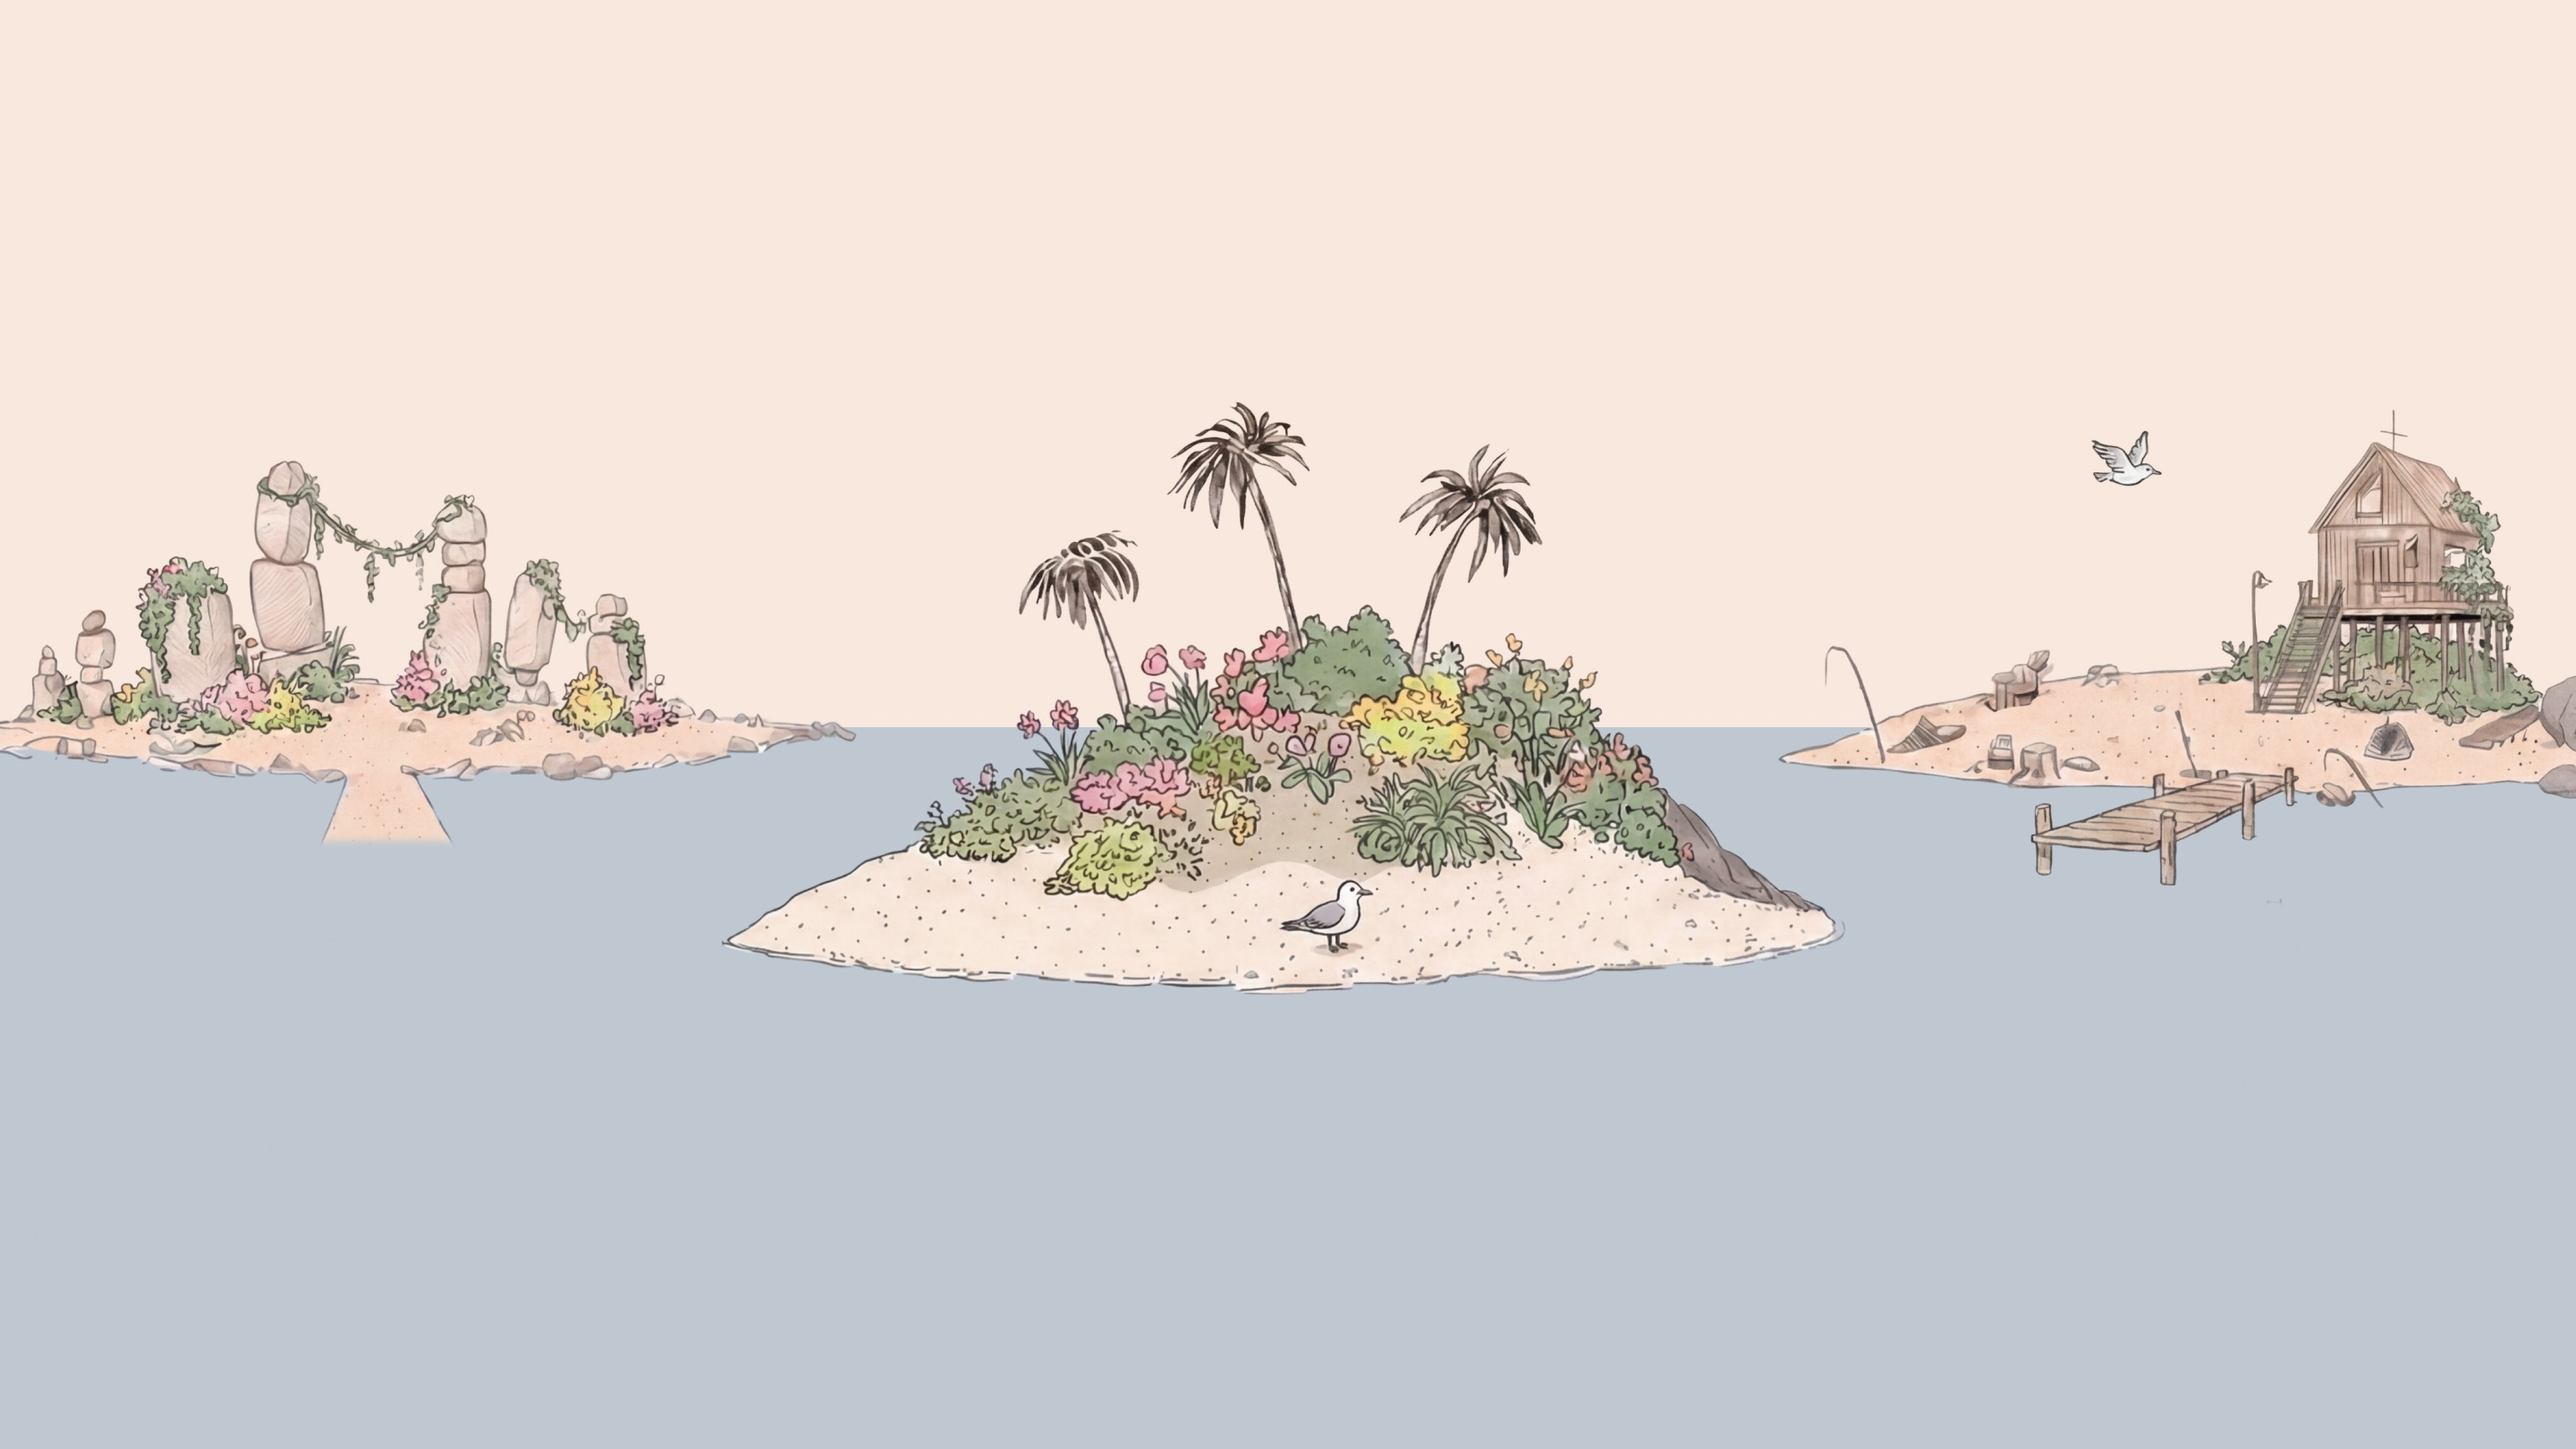
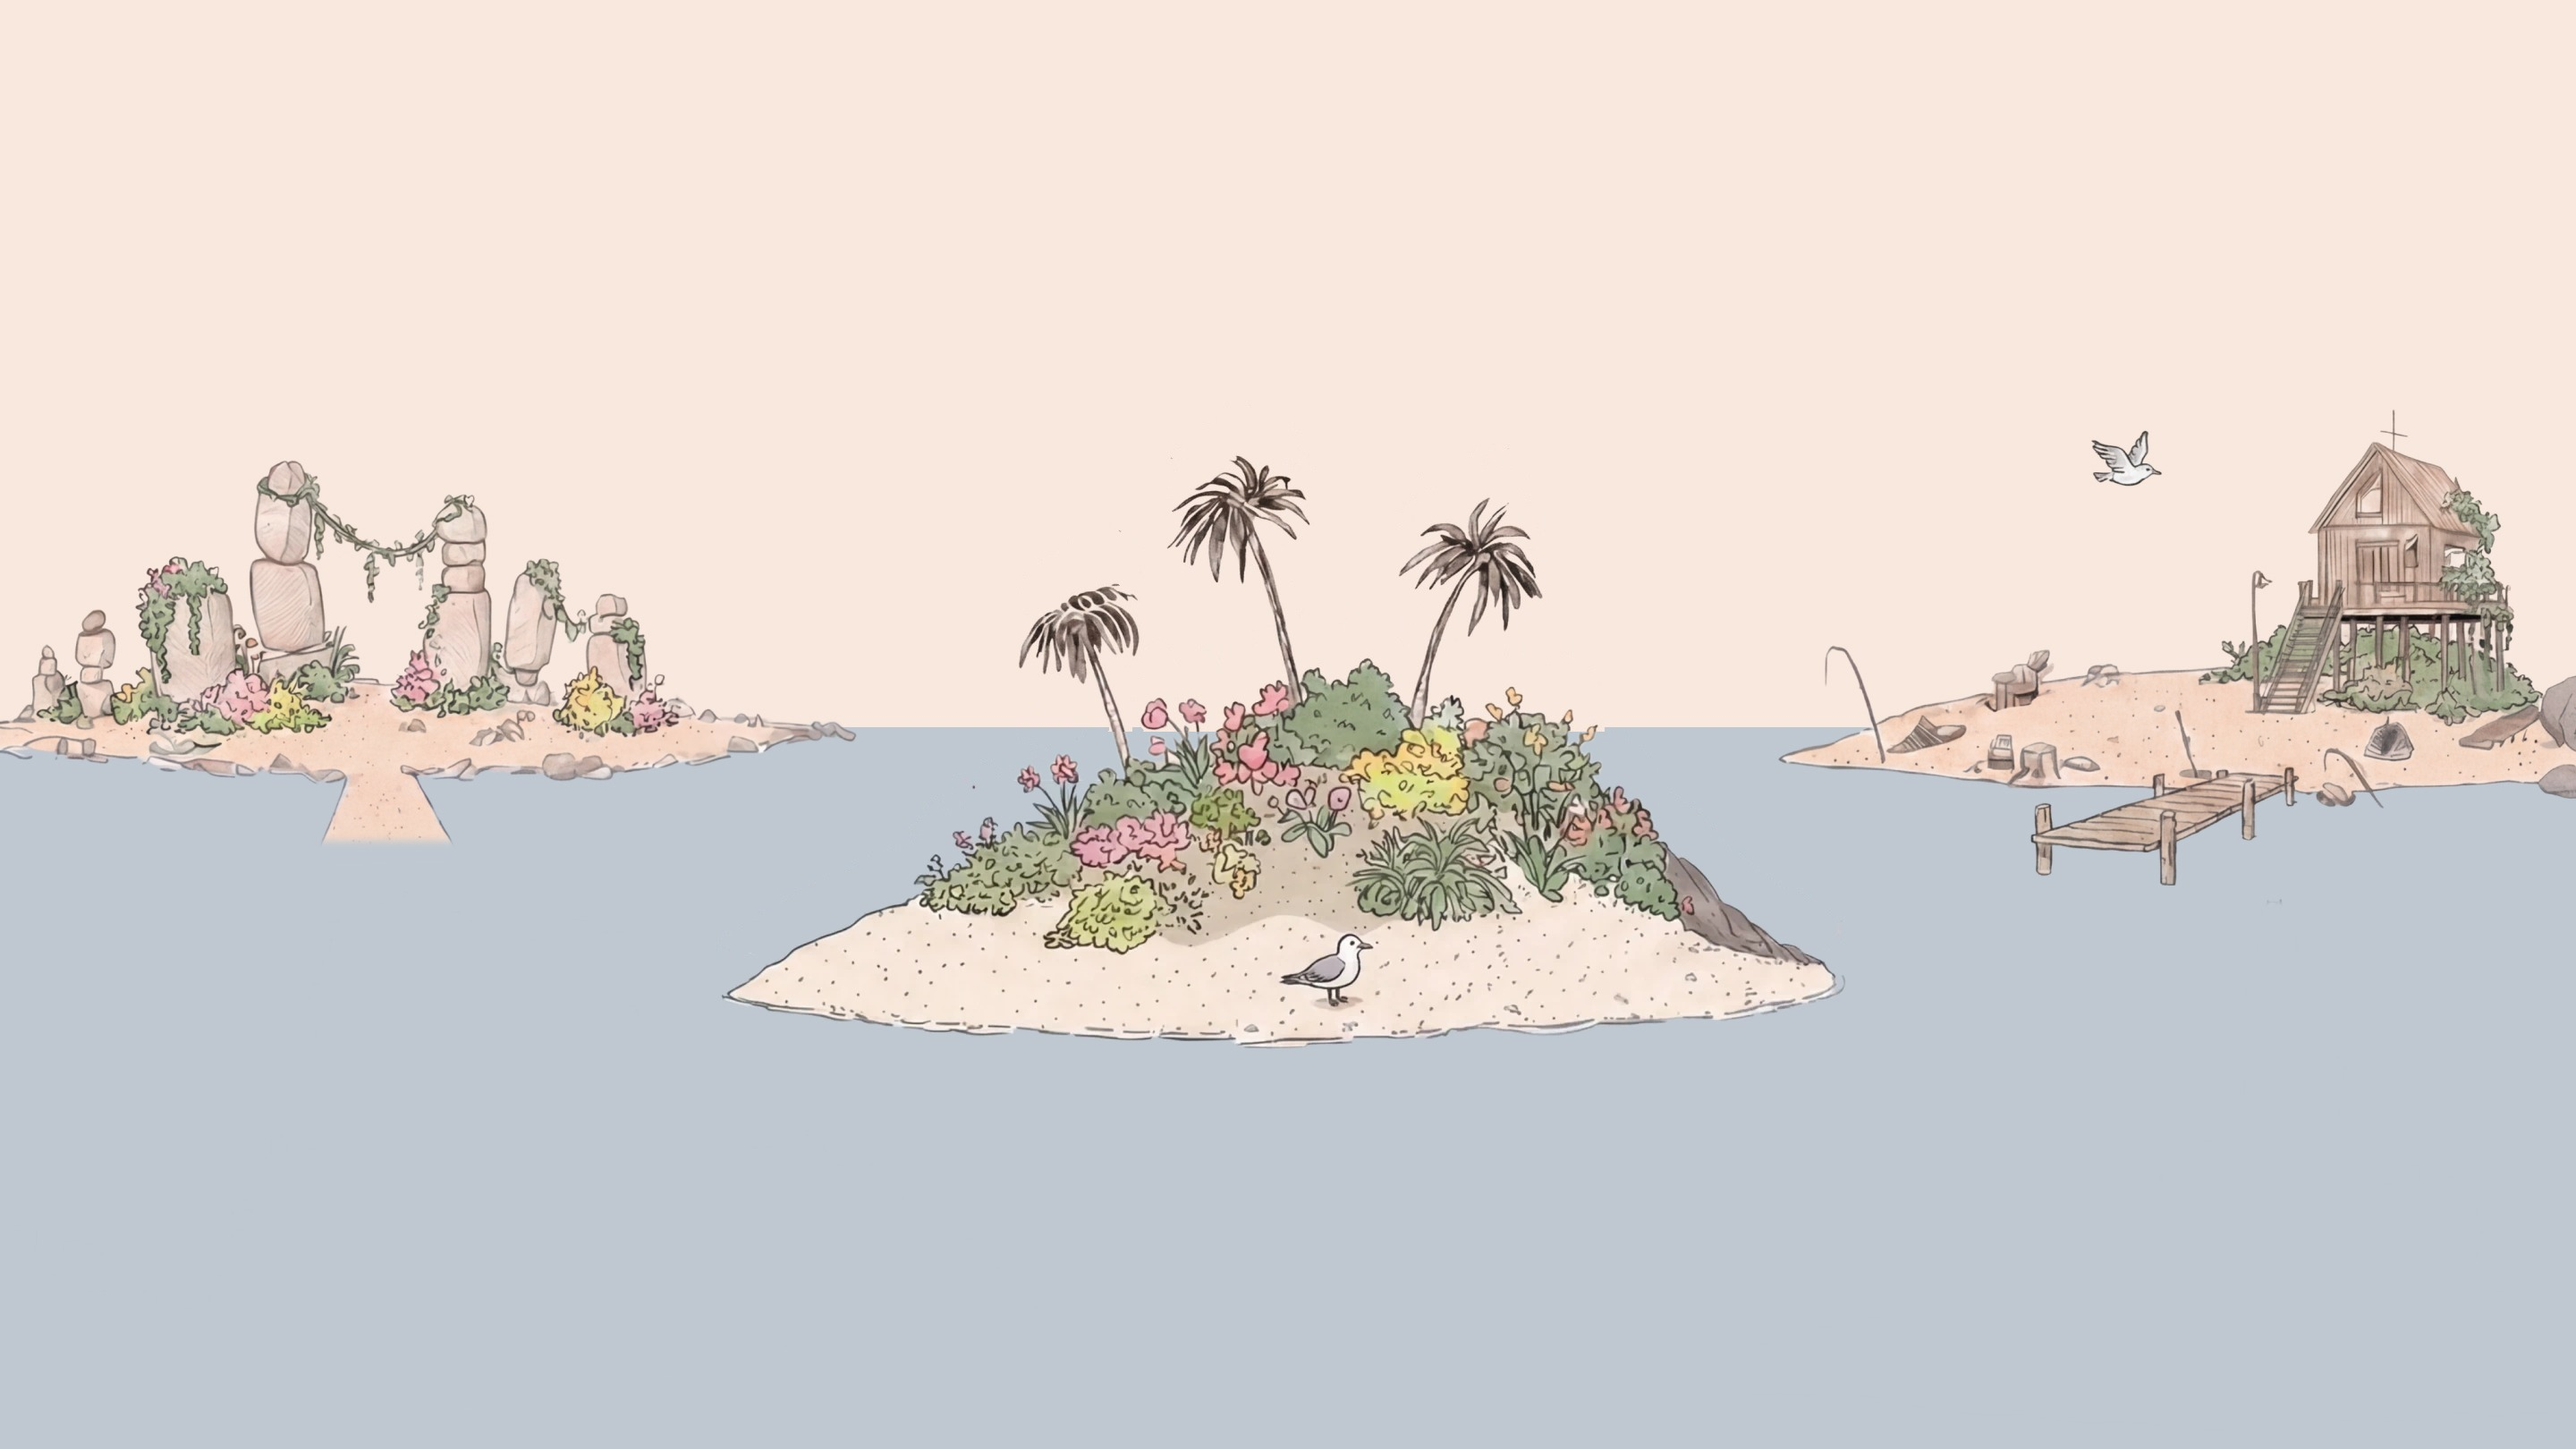
전체 지도: 메인 랜드 섬을 조금 아래로 옮기고, 섬 이름을 늘 보이는 나무 팻말로 (기일 추모 섬은 남은 날도 함께)

Changed region(s): [[0.2812, 0.2778, 0.7188, 0.7407]]

diff --git a/app/mainland/page.tsx b/app/mainland/page.tsx
@@ -7,7 +7,8 @@ import {
 } from "@/app/components/TopNav";
 import { SettingsModal } from "@/app/components/SettingsModal";
 import { daysUntilLabel } from "@/lib/anniversary";
-import { arrangeIslands, islandLook, islandSoloStyle } from "@/lib/islands";
+import { arrangeIslands, islandLook, islandSoloStyle, type IslandShape } from "@/lib/islands";
+import { IslandSign } from "@/components/IslandSign";
 import Link from "next/link";
 import { useSearchParams } from "next/navigation";
 import { Suspense, useEffect, useState } from "react";
@@ -21,6 +22,7 @@ type AnniversaryIsland = {
   status: "ask" | "open" | "later";
 };
 
+// 고정 섬의 클릭 영역(화면 기준)과 나무 팻말 자리(지도 무대 기준: 기둥이 땅에 닿는 곳)
 const mainlandIslands = [
   {
     label: "추모 커뮤니티",
@@ -29,14 +31,16 @@ const mainlandIslands = [
     top: "50.0%",
     width: "18%",
     height: "30%",
+    sign: { x: "26.5%", y: "50.8%" },
   },
   {
     label: "메인 랜드",
     href: "/myland",
     left: "51.0%",
-    top: "57.5%",
+    top: "61.2%",
     width: "22%",
     height: "32%",
+    sign: { x: "41.5%", y: "62.5%" },
   },
   {
     label: "저장소",
@@ -45,8 +49,15 @@ const mainlandIslands = [
     top: "48.0%",
     width: "18%",
     height: "30%",
+    sign: { x: "77.5%", y: "50.8%" },
   },
 ] as const;
+
+// 기일 추모 섬 그림 안에서 팻말 자리 (뒤집지 않은 그림 기준 %, 모래밭)
+const ANNIVERSARY_SIGN_SPOT: Record<IslandShape, { x: number; y: number }> = {
+  rock: { x: 25, y: 86 },
+  cairn: { x: 30, y: 89 },
+};
 
 
 export default function MainlandPage() {
@@ -141,13 +152,21 @@ function MainlandPageContent() {
                 className="block h-auto w-full transition-[filter] duration-200 group-hover:brightness-105"
                 style={placement.flip ? { transform: "scaleX(-1)" } : undefined}
               />
-              <span className="pointer-events-none absolute left-1/2 top-[20%] -translate-x-1/2 -translate-y-full whitespace-nowrap rounded-lg bg-white/85 px-4 py-2 text-center font-jeju-myeongjo text-base text-[#4A423C] opacity-0 transition-opacity duration-200 group-hover:opacity-100">
-                {island.nickname}의 섬
-                <span className="block font-mulish text-xs text-[#AF9083]">{daysUntilLabel(island.daysUntil)}</span>
-              </span>
+              <IslandSign
+                label={`${island.nickname}의 섬`}
+                sub={daysUntilLabel(island.daysUntil)}
+                x={`${placement.flip ? 100 - ANNIVERSARY_SIGN_SPOT[placement.shape].x : ANNIVERSARY_SIGN_SPOT[placement.shape].x}%`}
+                y={`${ANNIVERSARY_SIGN_SPOT[placement.shape].y}%`}
+              />
             </Link>
           );
         })}
+
+        {/* 고정 섬 이름: 섬에 꽂힌 나무 팻말 (늘 보여요) */}
+        {/* 누르기는 아래의 섬 영역이 받아요 */}
+        {mainlandIslands.map((island) => (
+          <IslandSign key={island.label} label={island.label} x={island.sign.x} y={island.sign.y} />
+        ))}
       </div>
 
       <div className="absolute inset-0 z-[1]">
@@ -160,12 +179,6 @@ function MainlandPageContent() {
             borderRadius: "50%",
             transform: "translate(-50%, -50%)",
           };
-          const tooltip = (
-            <span className="pointer-events-none absolute left-1/2 top-0 -translate-x-1/2 -translate-y-full whitespace-nowrap rounded-lg bg-white/80 px-4 py-2 font-jeju-myeongjo text-base text-[#4A423C] opacity-0 transition-opacity duration-200 group-hover:opacity-100">
-              {island.label}
-            </span>
-          );
-
           return (
             <Link
               key={island.label}
@@ -174,7 +187,6 @@ function MainlandPageContent() {
               className="group absolute cursor-pointer bg-transparent transition-all duration-200 hover:bg-white/10"
               style={islandStyle}
             >
-              {tooltip}
             </Link>
           );
         })}

diff --git a/components/IslandSign.tsx b/components/IslandSign.tsx
@@ -1,0 +1,48 @@
+// 섬에 꽂힌 나무 팻말 (전체 지도의 섬 이름). 부모 기준 x·y(%) 가 팻말 기둥이 땅에 닿는 자리.
+// 크기는 지도 무대(container) 너비를 따라가요 (cqw).
+export function IslandSign({
+  label,
+  sub,
+  x,
+  y,
+}: {
+  label: string;
+  sub?: string; // 작은 둘째 줄 (예: "기일이 2일 남았어요")
+  x: string;
+  y: string;
+}) {
+  return (
+    <span
+      className="pointer-events-none absolute flex -translate-x-1/2 -translate-y-full flex-col items-center transition-transform duration-200 group-hover:-translate-y-[calc(100%+3px)]"
+      style={{ left: x, top: y }}
+    >
+      <span
+        className="relative block whitespace-nowrap border-2 border-[#5A4636] text-center font-jeju-myeongjo text-[#3F2F24]"
+        style={{
+          padding: "0.45cqw 1.1cqw 0.5cqw",
+          borderRadius: "7px 11px 8px 10px / 10px 7px 11px 8px",
+          // 나뭇결 + 위가 밝은 나무색
+          background:
+            "repeating-linear-gradient(176deg, rgba(90,60,40,0) 0 9px, rgba(90,60,40,0.18) 9px 10px, rgba(90,60,40,0) 10px 17px), linear-gradient(#D8B48C, #C29A72)",
+          boxShadow: "0 2px 0 rgba(70,50,35,0.35)",
+          fontSize: "clamp(12px, 1.05cqw, 22px)",
+          transform: "rotate(-2deg)",
+        }}
+      >
+        <span className="absolute left-[5px] top-1/2 -mt-[2px] size-1 rounded-full bg-[#5A4636]" />
+        {label}
+        {sub && <span className="mt-px block font-mulish text-[0.62em] font-semibold text-[#6B5240]">{sub}</span>}
+        <span className="absolute right-[5px] top-1/2 -mt-[2px] size-1 rounded-full bg-[#5A4636]" />
+      </span>
+      {/* 기둥 */}
+      <span
+        className="-mt-[2px] block rounded-b-[2px] border-2 border-t-0 border-[#5A4636]"
+        style={{
+          width: "max(5px, 0.45cqw)",
+          height: "2.2cqw",
+          background: "linear-gradient(90deg, #9C7552, #B98F68 50%, #8A6545)",
+        }}
+      />
+    </span>
+  );
+}
